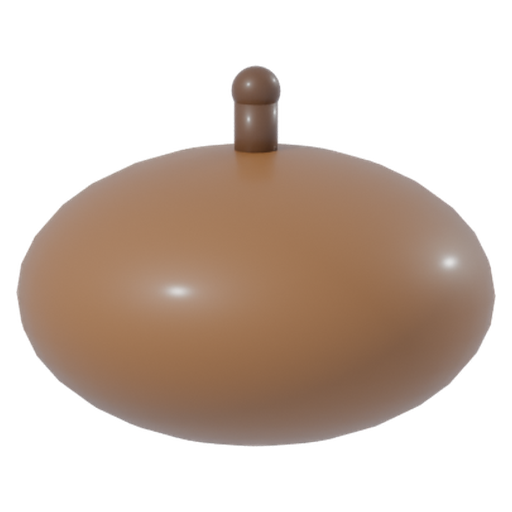
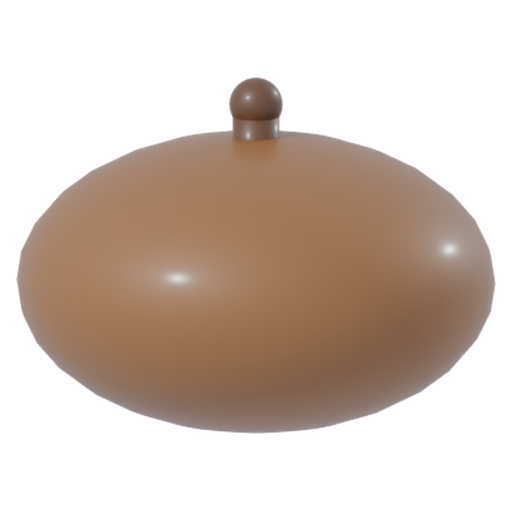
Craftování: nábytek do pokoje (5 spritů) a napojení pokoje, žaludová čepička přepracovaná
Claude-Session: https://claude.ai/code/session_01HSmZZVj8x8Xepzegn9EU1L

Changed region(s): [[0.0312, 0.125, 0.9688, 0.875], [0.3125, 0.5, 0.4062, 0.5938], [0.8438, 0.4688, 0.9062, 0.5625]]

diff --git a/src/lib/room.ts b/src/lib/room.ts
@@ -1,7 +1,7 @@
 import type { Locale } from "@/i18n/config";
 import layout from "./room-layout.json";
 
-export type FurnitureDef = { id: string; icon: string; price: number; names: Record<Locale, string> };
+export type FurnitureDef = { id: string; icon: string; price: number; names: Record<Locale, string>; /** Jen z craftování: v obchodě se nekupuje, vlastní se po vyrobení (Unlock "room:<id>"). */ craft?: boolean };
 
 const f = (id: string, icon: string, price: number, cs: string, en: string, de: string, ru: string): FurnitureDef => ({
   id, icon, price, names: { cs, en, de, ru },
@@ -21,6 +21,17 @@ export const FURNITURE: FurnitureDef[] = [
   f("piano", "🎹", 350, "Piano", "Piano", "Klavier", "Пианино"),
   f("rocketbed", "🚀", 450, "Postel-raketa", "Rocket bed", "Raketenbett", "Кровать-ракета"),
 ];
+
+// Nábytek z craftování (profil → Craftování). Názvy jsou v receptech, tady jen id a ikona.
+const c = (id: string, icon: string, cs: string, en: string, de: string, ru: string): FurnitureDef => ({ ...f(id, icon, 0, cs, en, de, ru), craft: true });
+export const CRAFT_FURNITURE: FurnitureDef[] = [
+  c("solar-system", "🪐", "Model sluneční soustavy", "Solar system model", "Sonnensystem-Modell", "Модель Солнечной системы"),
+  c("ship-wheel", "☸", "Lodní kormidlo", "Ship's wheel", "Steuerrad", "Штурвал"),
+  c("bonsai", "🪴", "Bonsaj", "Bonsai", "Bonsai", "Бонсай"),
+  c("armor-stand", "🛡", "Brnění na stojanu", "Armour stand", "Rüstungsständer", "Доспехи на подставке"),
+  c("cauldron", "🫕", "Kotlík s lektvarem", "Potion cauldron", "Zaubertrankkessel", "Котёл с зельем"),
+];
+export const ALL_FURNITURE: FurnitureDef[] = [...FURNITURE, ...CRAFT_FURNITURE];
 
 export const ROOM_SLOTS = 12;
 
@@ -48,10 +59,12 @@ export const roomXpBonus = (s: RoomState, source: "test" | "game" | string) =>
   roomPlaced(s).reduce((sum, id) => sum + ((source === "test" ? ROOM_PERKS[id]?.xpTest : source === "game" ? ROOM_PERKS[id]?.xpGame : 0) ?? 0), 0);
 export const roomEndlessBonus = (s: RoomState) => roomPlaced(s).reduce((sum, id) => sum + (ROOM_PERKS[id]?.endless ?? 0), 0);
 
-export function normalizeRoom(raw: unknown): RoomState {
+/** `craftOwned`: nábytek z craftování, který hráč vyrobil (z tabulky Unlock). Počítá se jako vlastněný. */
+export function normalizeRoom(raw: unknown, craftOwned: string[] = []): RoomState {
   const r = (raw && typeof raw === "object" ? raw : {}) as Record<string, unknown>;
-  const known = new Set(FURNITURE.map((x) => x.id));
-  const owned = Array.isArray(r.owned) ? [...new Set(r.owned.filter((x): x is string => typeof x === "string" && known.has(x)))] : [];
+  const known = new Set(ALL_FURNITURE.map((x) => x.id));
+  const stored = Array.isArray(r.owned) ? r.owned.filter((x): x is string => typeof x === "string" && known.has(x) && !CRAFT_FURNITURE.some((cf) => cf.id === x)) : [];
+  const owned = [...new Set([...stored, ...craftOwned.filter((x) => CRAFT_FURNITURE.some((cf) => cf.id === x))])];
   const placed: (string | null)[] = Array.from({ length: ROOM_SLOTS }, (_, i) => {
     const v = Array.isArray(r.placed) ? r.placed[i] : null;
     return typeof v === "string" && owned.includes(v) ? v : null;

diff --git a/src/app/api/pokoj/route.ts b/src/app/api/pokoj/route.ts
@@ -3,6 +3,12 @@ import type { Prisma } from "@prisma/client";
 import { auth } from "@/lib/auth";
 import { prisma } from "@/lib/prisma";
 import { FURNITURE, ROOM_PERKS, ROOM_SLOTS, normalizeRoom } from "@/lib/room";
+
+// Nábytek z craftování je vlastněný, když má hráč Unlock "room:<id>".
+async function craftOwned(userId: string): Promise<string[]> {
+  const rows = await prisma.unlock.findMany({ where: { userId, key: { startsWith: "room:" } }, select: { key: true } });
+  return rows.map((r) => r.key.slice(5));
+}
 import { dayKey } from "@/lib/shop";
 import { normalizeCards } from "@/lib/collection";
 import { shopBlocked } from "@/lib/parental";
@@ -10,15 +16,16 @@ import { shopBlocked } from "@/lib/parental";
 const GAME = "room";
 
 async function snapshot(userId: string) {
-  const [user, roomRow, cardsRow] = await Promise.all([
+  const [user, roomRow, cardsRow, crafted] = await Promise.all([
     prisma.user.findUnique({ where: { id: userId }, select: { points: true } }),
     prisma.idleState.findUnique({ where: { userId_game: { userId, game: GAME } } }),
     prisma.idleState.findUnique({ where: { userId_game: { userId, game: "cards" } } }),
+    craftOwned(userId),
   ]);
   return {
     loggedIn: true as const,
     points: user?.points ?? 0,
-    room: normalizeRoom(roomRow?.data),
+    room: normalizeRoom(roomRow?.data, crafted),
     day: dayKey(),
     cards: normalizeCards(cardsRow?.data).owned,
   };
@@ -45,7 +52,7 @@ export async function POST(request: Request) {
 
   try {
     const row = await prisma.idleState.findUnique({ where: { userId_game: { userId, game: GAME } } });
-    const room = normalizeRoom(row?.data);
+    const room = normalizeRoom(row?.data, await craftOwned(userId));
     const save = (state: unknown) => {
       const json = state as Prisma.InputJsonValue;
       return prisma.idleState.upsert({
@@ -87,7 +94,7 @@ export async function POST(request: Request) {
       if (!reward || !room.placed.includes(id)) return fail("not-placed");
       const ok = await prisma.$transaction(async (tx) => {
         await tx.$executeRaw`select pg_advisory_xact_lock(hashtext(${userId}))`;
-        const fresh = normalizeRoom((await tx.idleState.findUnique({ where: { userId_game: { userId, game: GAME } } }))?.data);
+        const fresh = normalizeRoom((await tx.idleState.findUnique({ where: { userId_game: { userId, game: GAME } } }))?.data, await craftOwned(userId));
         if (fresh.used[id] === day) return false;
         await tx.user.update({ where: { id: userId }, data: { points: { increment: reward } } });
         await tx.pointTransaction.create({ data: { userId, amount: reward, reason: `Pokoj: ${id} ${day}` } });

diff --git a/src/components/RoomView.tsx b/src/components/RoomView.tsx
@@ -4,7 +4,7 @@ import { useEffect, useState } from "react";
 import Link from "next/link";
 import { fill } from "@/i18n/profile";
 import { getRoomText } from "@/i18n/room";
-import { FURNITURE, ROOM_LAYOUT, ROOM_SLOTS, ROOM_SLOT_POS, furnitureSprite, type RoomState } from "@/lib/room";
+import { ALL_FURNITURE, FURNITURE, ROOM_LAYOUT, ROOM_SLOTS, ROOM_SLOT_POS, furnitureSprite, type RoomState } from "@/lib/room";
 import { Room3DView } from "@/components/Room3DView";
 import { getRoom3dText } from "@/i18n/room3d";
 import { CARDS, type Rarity } from "@/lib/collection";
@@ -21,7 +21,7 @@ const RARITY_STYLE: Record<Rarity, string> = {
 // Obrázek nábytku z Blenderu; když chybí, zobrazí se emoji.
 function Piece({ id, className = "" }: { id: string; className?: string }) {
   const [failed, setFailed] = useState(false);
-  const def = FURNITURE.find((f) => f.id === id);
+  const def = ALL_FURNITURE.find((f) => f.id === id);
   if (failed) {
     return (
       <span aria-hidden className={`flex items-center justify-center ${className}`}>
@@ -169,7 +169,7 @@ export function RoomView({ locale, initialTab = "room" }: { locale: Locale; init
               const id = data.room.placed[slot];
               const [x, y] = ROOM_SLOT_POS[slot];
               const lay = id ? ROOM_LAYOUT.furn[id] : null;
-              const name = id ? (FURNITURE.find((f) => f.id === id)?.names[locale] ?? t.remove) : t.emptySlot;
+              const name = id ? (ALL_FURNITURE.find((f) => f.id === id)?.names[locale] ?? t.remove) : t.emptySlot;
               return (
                 <button
                   key={slot}
@@ -210,9 +210,11 @@ export function RoomView({ locale, initialTab = "room" }: { locale: Locale; init
             {t.shop}
           </h2>
           <ul className="grid gap-2 sm:grid-cols-2">
-            {FURNITURE.map((f) => {
+            {ALL_FURNITURE.map((f) => {
               const owned = data.room.owned.includes(f.id);
               const placed = data.room.placed.includes(f.id);
+              // Nábytek z craftování se v obchodě neprodává, ukáže se až po vyrobení (a jen ve 2D pokoji).
+              if (f.craft && (!owned || view3d)) return null;
               return (
                 <li key={f.id} className="flex items-center gap-3 rounded-xl border-2 border-[var(--border-soft)] px-3 py-2">
                   <Piece id={f.id} className="h-12 w-12 shrink-0 text-3xl" />

diff --git a/src/lib/craft.ts b/src/lib/craft.ts
@@ -217,11 +217,11 @@ export const RECIPES: Recipe[] = [
   named("pet-star-collar", "pet-acc", "kouzla", "⭐", worldCost("kouzla", 3, 2), n("Hvězdný obojek", "Star collar", "Sternenhalsband", "Звёздный ошейник"), true),
 
   // --- Do pokoje ---
-  named("room-solar-system", "room", "vesmir", "🪐", worldCost("vesmir", 5, 3, 1), n("Model sluneční soustavy", "Solar system model", "Sonnensystem-Modell", "Модель Солнечной системы")),
-  named("room-ship-wheel", "room", "more", "☸", worldCost("more", 5, 3, 1), n("Lodní kormidlo", "Ship's wheel", "Steuerrad", "Штурвал")),
-  named("room-bonsai", "room", "les", "🪴", worldCost("les", 5, 3, 1), n("Bonsaj", "Bonsai", "Bonsai", "Бонсай")),
-  named("room-armor-stand", "room", "hrad", "🛡", worldCost("hrad", 5, 3, 1), n("Brnění na stojanu", "Armour stand", "Rüstungsständer", "Доспехи на подставке")),
-  named("room-cauldron", "room", "kouzla", "🫕", worldCost("kouzla", 5, 3, 1), n("Kotlík s lektvarem", "Potion cauldron", "Zaubertrankkessel", "Котёл с зельем")),
+  named("room-solar-system", "room", "vesmir", "🪐", worldCost("vesmir", 5, 3, 1), n("Model sluneční soustavy", "Solar system model", "Sonnensystem-Modell", "Модель Солнечной системы"), true),
+  named("room-ship-wheel", "room", "more", "☸", worldCost("more", 5, 3, 1), n("Lodní kormidlo", "Ship's wheel", "Steuerrad", "Штурвал"), true),
+  named("room-bonsai", "room", "les", "🪴", worldCost("les", 5, 3, 1), n("Bonsaj", "Bonsai", "Bonsai", "Бонсай"), true),
+  named("room-armor-stand", "room", "hrad", "🛡", worldCost("hrad", 5, 3, 1), n("Brnění na stojanu", "Armour stand", "Rüstungsständer", "Доспехи на подставке"), true),
+  named("room-cauldron", "room", "kouzla", "🫕", worldCost("kouzla", 5, 3, 1), n("Kotlík s lektvarem", "Potion cauldron", "Zaubertrankkessel", "Котёл с зельем"), true),
 ];
 
 const RECIPE_BY_ID = new Map(RECIPES.map((r) => [r.id, r]));

diff --git a/umime-art/scripts/room.py b/umime-art/scripts/room.py
@@ -269,9 +269,114 @@ def f_rocketbed():
         cyl((sx, 0.6, 0.12), 0.05, 0.24, M("#8a93a6", 0.3, metal=0.8))
 
 
+def _ring(loc, R, r, m, rot=(0, 0, 0)):
+    FM.bpy.ops.mesh.primitive_torus_add(major_radius=R, minor_radius=r, location=loc, major_segments=48, minor_segments=12)
+    t = bpy.context.active_object
+    t.rotation_euler = tuple(math.radians(a) for a in rot)
+    t.data.materials.append(m)
+    return FM.smooth(t)
+
+
+def f_solar_system():
+    """Model sluneční soustavy na stojanu: Slunce uprostřed, planety na ramenech."""
+    wood = M("#6b3a1a", 0.5)
+    brass = M("#d9a43a", 0.3, metal=0.8)
+    cyl((0, 0, 0.05), 0.55, 0.1, wood)
+    cyl((0, 0, 0.55), 0.05, 0.9, brass)
+    sph((0, 0, 1.15), 0.2, M("#ffcf3a", 0.3, emit=1.2))
+    for k, (R, col, rad, ang, tilt) in enumerate([(0.34, "#b8b0a8", 0.05, 20, 0), (0.5, "#e8a060", 0.07, 110, 0), (0.68, "#4da3ff", 0.08, 200, 0), (0.86, "#e5484d", 0.065, 290, 0)]):
+        _ring((0, 0, 1.15 - 0.05 * k), R, 0.007, brass)
+        a = math.radians(ang)
+        sph((math.cos(a) * R, math.sin(a) * R, 1.15 - 0.05 * k), rad, M(col, 0.45))
+        cyl((0, 0, 1.15 - 0.05 * k), 0.008, 0.2 + k * 0.0, brass, rot=(0, 0, 0))
+    sph((math.cos(math.radians(60)) * 0.86, math.sin(math.radians(60)) * 0.86, 0.9), 0.1, M("#e8c27a", 0.4))
+    _ring((math.cos(math.radians(60)) * 0.86, math.sin(math.radians(60)) * 0.86, 0.9), 0.15, 0.012, M("#c8a060", 0.5), rot=(70, 0, 0))
+
+
+def f_ship_wheel():
+    """Lodní kormidlo na dřevěném podstavci."""
+    wood = M("#8a5a2b", 0.5)
+    dark = M("#4a2f1e", 0.55)
+    brass = M("#d9a43a", 0.3, metal=0.8)
+    box((0, 0, 0.08), (0.8, 0.5, 0.16), dark, bevel=0.03)
+    cyl((0, 0.05, 0.55), 0.09, 0.9, dark)
+    cx, cz = (0, 1.15)
+    # kolo stojí ve svislé rovině XZ čelem k -y
+    FM.bpy.ops.mesh.primitive_torus_add(major_radius=0.5, minor_radius=0.05, location=(cx, 0, cz), rotation=(math.radians(90), 0, 0), major_segments=48, minor_segments=12)
+    t = bpy.context.active_object
+    t.data.materials.append(wood)
+    FM.smooth(t)
+    for k in range(8):
+        a = k * math.tau / 8
+        cyl((cx + math.cos(a) * 0.3, -0.0, cz + math.sin(a) * 0.3), 0.025, 0.6, wood, rot=(0, math.degrees(a) - 90, 0)).rotation_euler = (math.radians(0), math.radians(90) - a + math.pi / 2 * 0, 0)
+        cyl((cx + math.cos(a) * 0.62, 0, cz + math.sin(a) * 0.62), 0.035, 0.22, wood, rot=(0, 90 - math.degrees(a) + 90, 0)).rotation_euler = (0, math.pi / 2 - a, 0)
+    sph((cx, 0, cz), 0.12, brass)
+    sph((cx, -0.07, cz), 0.06, M("#c0392b", 0.4))
+
+
+def f_bonsai():
+    """Bonsaj v nízké misce."""
+    pot = M("#2e5aa8", 0.45)
+    soil = M("#4a2f1e", 0.95)
+    bark = M("#6b4a2a", 0.8)
+    box((0, 0, 0.12), (0.9, 0.55, 0.24), pot, bevel=0.06)
+    box((0, 0, 0.26), (0.8, 0.45, 0.05), soil, bevel=0.02)
+    cyl((-0.05, 0, 0.55), 0.07, 0.6, bark, rot=(0, 12, 0), r2=0.045)
+    cyl((0.12, 0, 0.88), 0.045, 0.4, bark, rot=(0, -35, 0), r2=0.025)
+    cyl((-0.2, 0, 0.78), 0.04, 0.35, bark, rot=(0, 40, 0), r2=0.02)
+    for (x, z, r, c) in [(0.3, 1.05, 0.28, "#3f9c3a"), (-0.32, 0.98, 0.26, "#58b947"), (0.0, 1.22, 0.3, "#3f9c3a"), (0.12, 0.95, 0.2, "#6fcf5a")]:
+        sph((x, 0, z), r, M(c, 0.55), (1.0, 0.8, 0.7))
+    sph((0.5, 0.1, 0.3), 0.07, M("#9aa4b8", 0.7))
+
+
+def f_armor_stand():
+    """Brnění na dřevěném stojanu se štítem a mečem."""
+    steel = M("#c9ced8", 0.28, metal=0.85)
+    dark = M("#5a6275", 0.35, metal=0.7)
+    wood = M("#6b3a1a", 0.5)
+    red = M("#c0392b", 0.55)
+    box((0, 0, 0.06), (0.9, 0.6, 0.12), wood, bevel=0.03)
+    cyl((0, 0, 0.55), 0.04, 0.9, wood)
+    for sx in (-1, 1):
+        cyl((sx * 0.16, 0, 0.5), 0.07, 0.8, steel, r2=0.06)
+    sph((0, 0, 1.15), 0.34, steel, (1.0, 0.7, 1.1))
+    box((0, 0, 0.82), (0.5, 0.36, 0.2), dark, bevel=0.04)
+    for sx in (-1, 1):
+        sph((sx * 0.38, 0, 1.28), 0.14, steel, (1, 0.9, 0.8))
+    sph((0, 0, 1.7), 0.22, steel, (1, 1, 1.05))
+    box((0, -0.2, 1.7), (0.3, 0.04, 0.05), M("#16132b", 0.5), bevel=0.01)
+    box((0, 0, 1.98), (0.05, 0.28, 0.2), red, bevel=0.02)
+    # štít u nohy a meč opřený o stojan
+    cyl((0.55, -0.1, 0.4), 0.26, 0.06, M("#3248f0", 0.45), rot=(80, 0, 0))
+    cyl((0.55, -0.14, 0.4), 0.1, 0.06, M("#ffc933", 0.3, metal=0.8), rot=(80, 0, 0))
+    box((-0.55, -0.1, 0.55), (0.07, 0.03, 0.95), M("#e8eef8", 0.2, metal=0.9), rot=(0, 10, 0), bevel=0.01)
+    box((-0.55, -0.1, 0.12), (0.26, 0.04, 0.05), M("#d9a43a", 0.3, metal=0.8), bevel=0.01)
+
+
+def f_cauldron():
+    """Železný kotlík s lektvarem nad ohýnkem."""
+    iron = M("#2c2a33", 0.4, metal=0.5)
+    potion = M("#58e0a0", 0.15, emit=1.4)
+    for k in range(3):
+        a = k * math.tau / 3 + 0.4
+        box((math.cos(a) * 0.3, math.sin(a) * 0.3, 0.12), (0.1, 0.1, 0.28), M("#4a2f1e", 0.8), rot=(0, 0, math.degrees(a)), bevel=0.01)
+    sph((0, 0, 0.62), 0.5, iron, (1, 1, 0.82))
+    _ring((0, 0, 0.98), 0.4, 0.05, iron)
+    cyl((0, 0, 0.97), 0.38, 0.03, potion)
+    for (x, y, z, r) in [(0.1, 0.0, 1.08, 0.07), (-0.15, 0.1, 1.15, 0.05), (0.05, -0.15, 1.25, 0.04), (-0.05, -0.05, 1.38, 0.03)]:
+        sph((x, y, z), r, M("#9af0c8", 0.1, emit=1.0))
+    for sx in (-1, 1):
+        _ring((sx * 0.5, 0, 0.72), 0.07, 0.015, iron, rot=(0, 90, 0))
+    for k in range(5):
+        a = k * math.tau / 5
+        cone((math.cos(a) * 0.18, math.sin(a) * 0.18, 0.22), 0.07, 0.3, M("#ff8a1a" if k % 2 else "#ffd24d", 0.4, emit=2.5))
+
+
 FURNITURE = dict(plant=(f_plant, 2.6), sofa=(f_sofa, 3.2), desk=(f_desk, 3.0), bookshelf=(f_bookshelf, 3.2), globe=(f_globe, 2.6),
                  guitar=(f_guitar, 3.15), aquarium=(f_aquarium, 3.0), telescope=(f_telescope, 2.95), trophy=(f_trophy, 3.0),
                  arcade=(f_arcade, 3.2), piano=(f_piano, 3.3), rocketbed=(f_rocketbed, 3.9))
+# Jen z craftování (id odpovídají src/lib/room.ts)
+FURNITURE.update({"solar-system": (f_solar_system, 2.9), "ship-wheel": (f_ship_wheel, 2.9), "bonsai": (f_bonsai, 2.6), "armor-stand": (f_armor_stand, 3.4), "cauldron": (f_cauldron, 2.8)})
 
 
 # Natočení kolem svislé osy ve stupních, aby byl dobře vidět tvar.

diff --git a/umime-art/blender/craft_doplnky.py b/umime-art/blender/craft_doplnky.py
@@ -93,11 +93,11 @@ def pet_sailor_collar():
 def pet_acorn_cap():
     brown = mat("cepicka", "#8a5a2b", rough=0.55)
     dark = mat("stopka", "#5a3a20", rough=0.5)
-    parts = [sphere((0, 0, 0.0), 0.44, brown, scale=(1, 1, 0.62))]
+    parts = [sphere((0, 0.02, 0.1), 0.36, brown, scale=(1, 1, 0.62))]
     for k in range(3):
-        parts.append(torus((0, 0, 0.02 + k * 0.07), 0.4 - k * 0.1, 0.02, dark))
-    parts.append(cyl((0, 0, 0.3), 0.04, 0.14, dark))
-    parts.append(sphere((0, 0, 0.38), 0.045, dark))
+        parts.append(torus((0, 0.02, 0.12 + k * 0.06), 0.33 - k * 0.09, 0.016, dark))
+    parts.append(cyl((0, 0.02, 0.3), 0.035, 0.12, dark))
+    parts.append(sphere((0, 0.02, 0.37), 0.04, dark))
     return parts
 
 

diff --git a/CRAFT_ASSETS.md b/CRAFT_ASSETS.md
@@ -1,9 +1,9 @@
-# Craftování: jména 3D modelů (zatím jen pojmenované)
+# Craftování: 3D modely a jejich napojení
 
 Craftování je v profilu na záložce **Craftování** (`/profil#craftovani`). Katalog materiálů a receptů je v
 `src/lib/craft.ts`, pole `asset3d` u receptu je název modelu, který má jednou dodat 3D tým.
 
-**Zatím se nic nemodeluje.** Tenhle soubor jen drží jména, aby se později nemusela vymýšlet:
+**Modely jsou hotové** (generátory `umime-art/blender/avatary3d.py` a `craft_doplnky.py`, pokoj `umime-art/scripts/room.py`):
 
 - Avatary a pozadí fungují už teď: avatar se kreslí jako SVG (`src/lib/avatars.ts`), pozadí jako CSS přechod
   (`src/lib/cosmetics.ts`). Model / obrázek z Blenderu je jen vylepšení, stejně jako u ostatních avatarů
@@ -32,23 +32,23 @@ Pravidlo receptů: každá věc se vyrábí jen z materiálů **svého světa** 
 
 | název modelu | věc | svět | stav |
 |---|---|---|---|
-| `craft-antenna-helmet` | Helma s anténkou | Vesmír | čeká na model, do té doby nejde vyrobit |
-| `craft-pearl-necklace` | Perlový náhrdelník | Moře | čeká na model, do té doby nejde vyrobit |
-| `craft-leaf-wreath` | Věnec z listí | Les | čeká na model, do té doby nejde vyrobit |
-| `craft-knight-helmet` | Rytířská přilba | Hrad | čeká na model, do té doby nejde vyrobit |
-| `craft-witch-hat` | Čarodějný klobouk | Kouzla | čeká na model, do té doby nejde vyrobit |
-| `craft-cape-of-stars` | Hvězdný plášť | Vesmír | čeká na model, do té doby nejde vyrobit |
-| `craft-dragon-wings` | Dračí křídla | Kouzla | čeká na model, do té doby nejde vyrobit |
+| `craft-antenna-helmet` | Helma s anténkou | Vesmír | hotovo, jde vyrobit |
+| `craft-pearl-necklace` | Perlový náhrdelník | Moře | hotovo, jde vyrobit |
+| `craft-leaf-wreath` | Věnec z listí | Les | hotovo, jde vyrobit |
+| `craft-knight-helmet` | Rytířská přilba | Hrad | hotovo, jde vyrobit |
+| `craft-witch-hat` | Čarodějný klobouk | Kouzla | hotovo, jde vyrobit |
+| `craft-cape-of-stars` | Hvězdný plášť | Vesmír | hotovo, jde vyrobit |
+| `craft-dragon-wings` | Dračí křídla | Kouzla | hotovo, jde vyrobit |
 
 ### Doplňky pro mazlíčky
 
 | název modelu | věc | svět | stav |
 |---|---|---|---|
-| `craft-pet-spacesuit` | Skafandr pro mazlíčka | Vesmír | čeká na model, do té doby nejde vyrobit |
-| `craft-pet-sailor-collar` | Námořnický obojek | Moře | čeká na model, do té doby nejde vyrobit |
-| `craft-pet-acorn-cap` | Žaludová čepička | Les | čeká na model, do té doby nejde vyrobit |
-| `craft-pet-knight-cape` | Rytířský plášť pro mazlíčka | Hrad | čeká na model, do té doby nejde vyrobit |
-| `craft-pet-star-collar` | Hvězdný obojek | Kouzla | čeká na model, do té doby nejde vyrobit |
+| `craft-pet-spacesuit` | Skafandr pro mazlíčka | Vesmír | hotovo, jde vyrobit |
+| `craft-pet-sailor-collar` | Námořnický obojek | Moře | hotovo, jde vyrobit |
+| `craft-pet-acorn-cap` | Žaludová čepička | Les | hotovo, jde vyrobit |
+| `craft-pet-knight-cape` | Rytířský plášť pro mazlíčka | Hrad | hotovo, jde vyrobit |
+| `craft-pet-star-collar` | Hvězdný obojek | Kouzla | hotovo, jde vyrobit |
 
 ### Ozdoby profilu (pozadí)
 
@@ -69,11 +69,11 @@ Pravidlo receptů: každá věc se vyrábí jen z materiálů **svého světa** 
 
 | název modelu | věc | svět | stav |
 |---|---|---|---|
-| `craft-room-solar-system` | Model sluneční soustavy | Vesmír | čeká na model, do té doby nejde vyrobit |
-| `craft-room-ship-wheel` | Lodní kormidlo | Moře | čeká na model, do té doby nejde vyrobit |
-| `craft-room-bonsai` | Bonsaj | Les | čeká na model, do té doby nejde vyrobit |
-| `craft-room-armor-stand` | Brnění na stojanu | Hrad | čeká na model, do té doby nejde vyrobit |
-| `craft-room-cauldron` | Kotlík s lektvarem | Kouzla | čeká na model, do té doby nejde vyrobit |
+| `craft-room-solar-system` | Model sluneční soustavy | Vesmír | hotovo, jde vyrobit |
+| `craft-room-ship-wheel` | Lodní kormidlo | Moře | hotovo, jde vyrobit |
+| `craft-room-bonsai` | Bonsaj | Les | hotovo, jde vyrobit |
+| `craft-room-armor-stand` | Brnění na stojanu | Hrad | hotovo, jde vyrobit |
+| `craft-room-cauldron` | Kotlík s lektvarem | Kouzla | hotovo, jde vyrobit |
 
 ### Materiály (jen jména, ikony zatím emoji)
 
@@ -104,3 +104,19 @@ Pravidlo receptů: každá věc se vyrábí jen z materiálů **svého světa** 
 | `moonstone` | 🔮 Měsíční kámen | Kouzla | vzácný |
 | `dragon-scale` | 🐉 Dračí šupina | Kouzla | epický |
 
+
+
+## Kde co leží a jak se to napojuje
+
+| co | soubory | zápis vyrobené věci | kdo čte |
+|---|---|---|---|
+| avatary z craftování (10) | `public/avatars-3d/<id>.glb`, `-portret.webp`, `-postava.webp` | `avatar:<id>` | šatník, profil |
+| doplňky na avatara (7) | `public/avatars-3d/accessories/<id>.glb` + `.png` | `acc:<id>` | `Avatar3D` (`AvatarCustom.worn`, max 3) |
+| doplňky pro mazlíčky (5) | `public/pets/accessories/<id>.glb` + `.png` (id bez `pet-`) | `pet:<id>` | `PetGame`, `Pet3D` (kotvy v `pets3d.ts`) |
+| nábytek do pokoje (5) | `public/room/furniture/<id>.webp` (id bez `room-`) | `room:<id>` | 2D pokoj (`RoomView`); ve 3D pokoji zatím nejsou |
+
+Doplňky na avatara jsou modelované v souřadnicích avatara (počátek u chodidel); `Avatar3D` je připíná na uzel
+`*_hlava` (čelenky, helmy, klobouky) nebo `*_telo` (náhrdelník, plášť, křídla). Nasazená pokrývka hlavy skryje
+vestavěnou (anténu, korunu).
+
+Pozadí z craftování zatím jen jako CSS přechody (`src/lib/cosmetics.ts`), obrázky z Blenderu nejsou.
